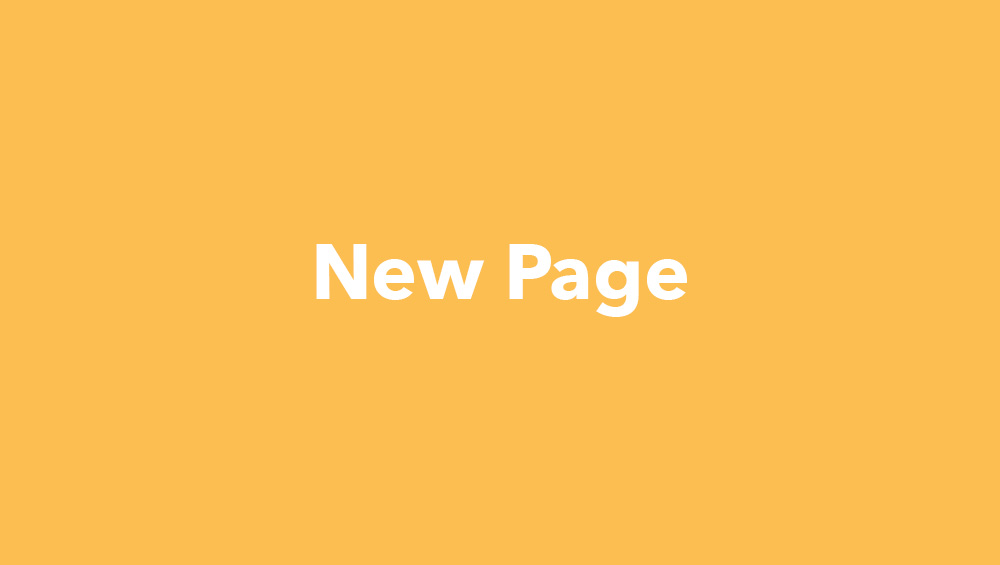
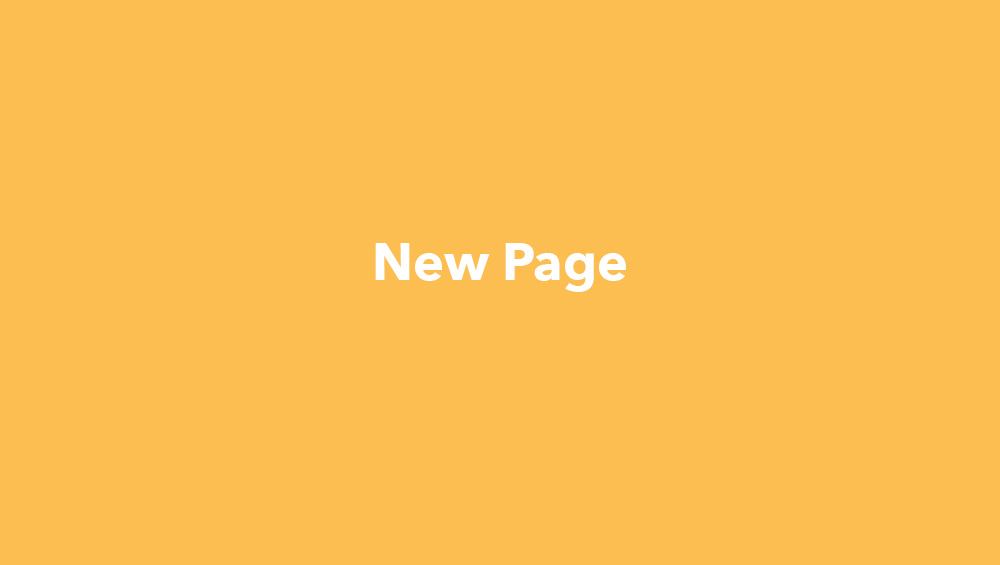
Added gifs

Changed region(s): [[0.31, 0.4212, 0.713, 0.5717]]

diff --git a/dev/css/main-min.css b/dev/css/main-min.css
@@ -1,1 +1,1 @@
-body{padding:0;margin:0;overflow:hidden}a{font-weight:bold;text-decoration:none;color:#2a2a2a}a:visited{font-weight:normal}a:hover{text-decoration:underline}img{position:absolute;top:0;left:0;width:100vw;display:block;height:auto}.hidden{display:none !important;visibility:hidden}.visuallyhidden{border:0;clip:rect(0 0 0 0);height:1px;margin:-1px;overflow:hidden;padding:0;position:absolute;width:1px}.visuallyhidden.focusable:active,.visuallyhidden.focusable:focus{clip:auto;height:auto;margin:0;overflow:visible;position:static;width:auto}.invisible{visibility:hidden}.clearfix:before,.clearfix:after{content:" ";display:table}.clearfix:after{clear:both}.clearfix{*zoom:1}@media print{*,*:before,*:after{background:transparent !important;color:#000 !important;-webkit-box-shadow:none !important;box-shadow:none !important;text-shadow:none !important}a,a:visited{text-decoration:underline}a[href]:after{content:" (" attr(href) ")"}abbr[title]:after{content:" (" attr(title) ")"}a[href^="#"]:after,a[href^="javascript:"]:after{content:""}pre,blockquote{border:1px solid #999;page-break-inside:avoid}thead{display:table-header-group}tr,img{page-break-inside:avoid}img{max-width:100% !important}p,h2,h3{orphans:3;widows:3}h2,h3{page-break-after:avoid}}
+body{padding:0;margin:0;overflow:hidden}a{font-weight:bold;text-decoration:none;color:#2a2a2a}a:visited{font-weight:normal}a:hover{text-decoration:underline}img{position:absolute;top:0;left:calc(-107.5vw);width:auto;display:block;height:100vh}.hidden{display:none !important;visibility:hidden}.visuallyhidden{border:0;clip:rect(0 0 0 0);height:1px;margin:-1px;overflow:hidden;padding:0;position:absolute;width:1px}.visuallyhidden.focusable:active,.visuallyhidden.focusable:focus{clip:auto;height:auto;margin:0;overflow:visible;position:static;width:auto}.invisible{visibility:hidden}.clearfix:before,.clearfix:after{content:" ";display:table}.clearfix:after{clear:both}.clearfix{*zoom:1}@media print{*,*:before,*:after{background:transparent !important;color:#000 !important;-webkit-box-shadow:none !important;box-shadow:none !important;text-shadow:none !important}a,a:visited{text-decoration:underline}a[href]:after{content:" (" attr(href) ")"}abbr[title]:after{content:" (" attr(title) ")"}a[href^="#"]:after,a[href^="javascript:"]:after{content:""}pre,blockquote{border:1px solid #999;page-break-inside:avoid}thead{display:table-header-group}tr,img{page-break-inside:avoid}img{max-width:100% !important}p,h2,h3{orphans:3;widows:3}h2,h3{page-break-after:avoid}}

diff --git a/index.html b/index.html
@@ -1,0 +1,42 @@
+<!doctype html>
+<html class="no-js" lang="">
+    <head>
+        <meta charset="utf-8">
+        <meta http-equiv="X-UA-Compatible" content="IE=edge,chrome=1">
+        <title></title>
+        <meta name="description" content="">
+        <meta name="viewport" content="width=device-width, initial-scale=1">
+
+        <link rel="stylesheet" href="css/normalize.min.css">
+        <link rel="stylesheet" href="css/main.css">
+    </head>
+    <body>
+
+        
+        
+        <img id="startImage" src="img/background.jpg">
+
+
+
+
+        <script src="https://cdnjs.cloudflare.com/ajax/libs/gsap/1.20.3/TweenMax.min.js"></script>
+        <script src="js/blueWave.js"></script>
+        <script type="text/javascript">
+            var bluewave = new BlueWave({
+                canvasTop: 0
+            });
+
+            function example () {
+                console.log("dope");
+            }
+
+            document.getElementById('startImage').addEventListener('click', function() {
+                bluewave.start(example);
+            })
+
+            
+
+        </script>
+        
+    </body>
+</html>

diff --git a/dev/css/main.css b/dev/css/main.css
@@ -25,10 +25,11 @@ a:hover {
 img {
     position: absolute;
     top: 0;
-    left: 0;
-    width: 100vw;
+    left: calc(-107.5vw);
+    width: auto;
     display: block;
-    height: auto;
+    height: 100vh;
+
 }
 
 canvas {
